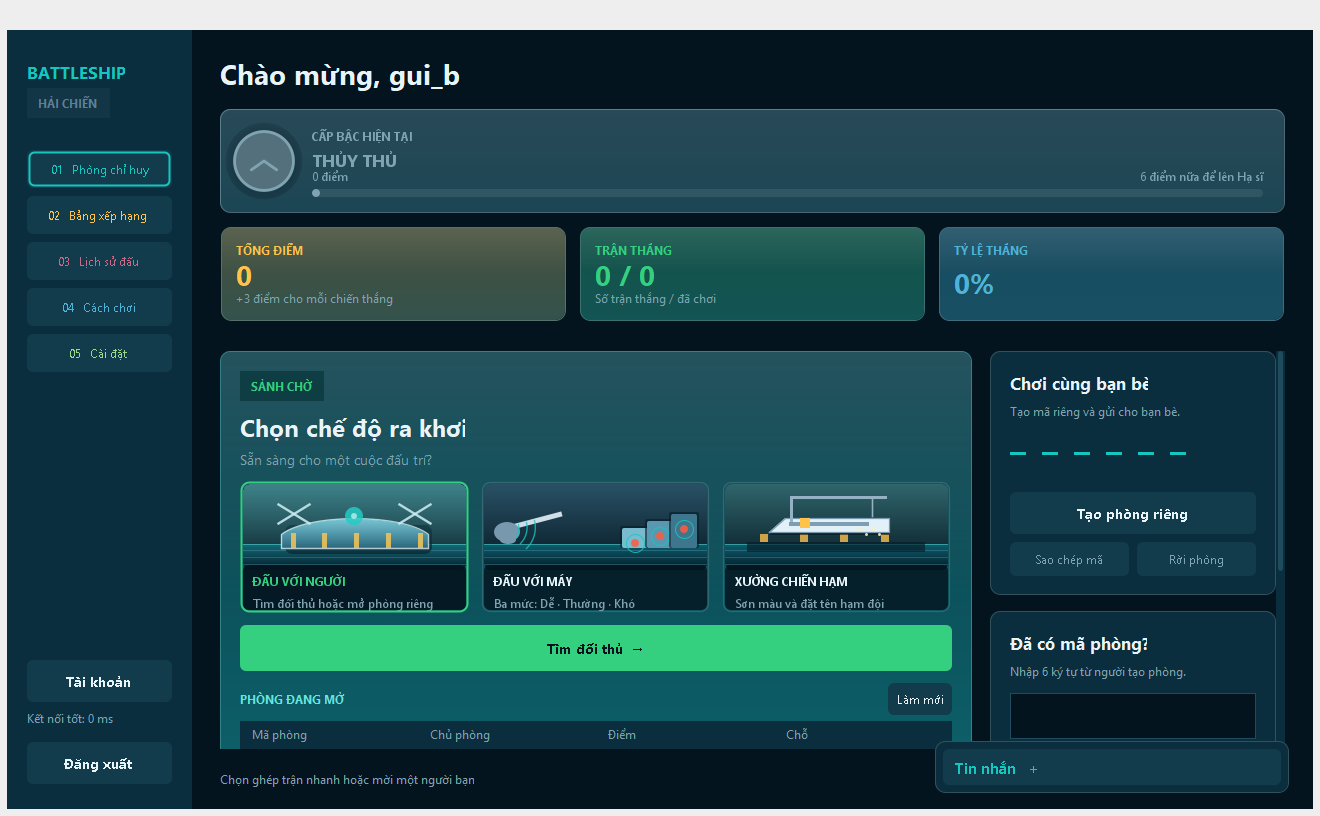
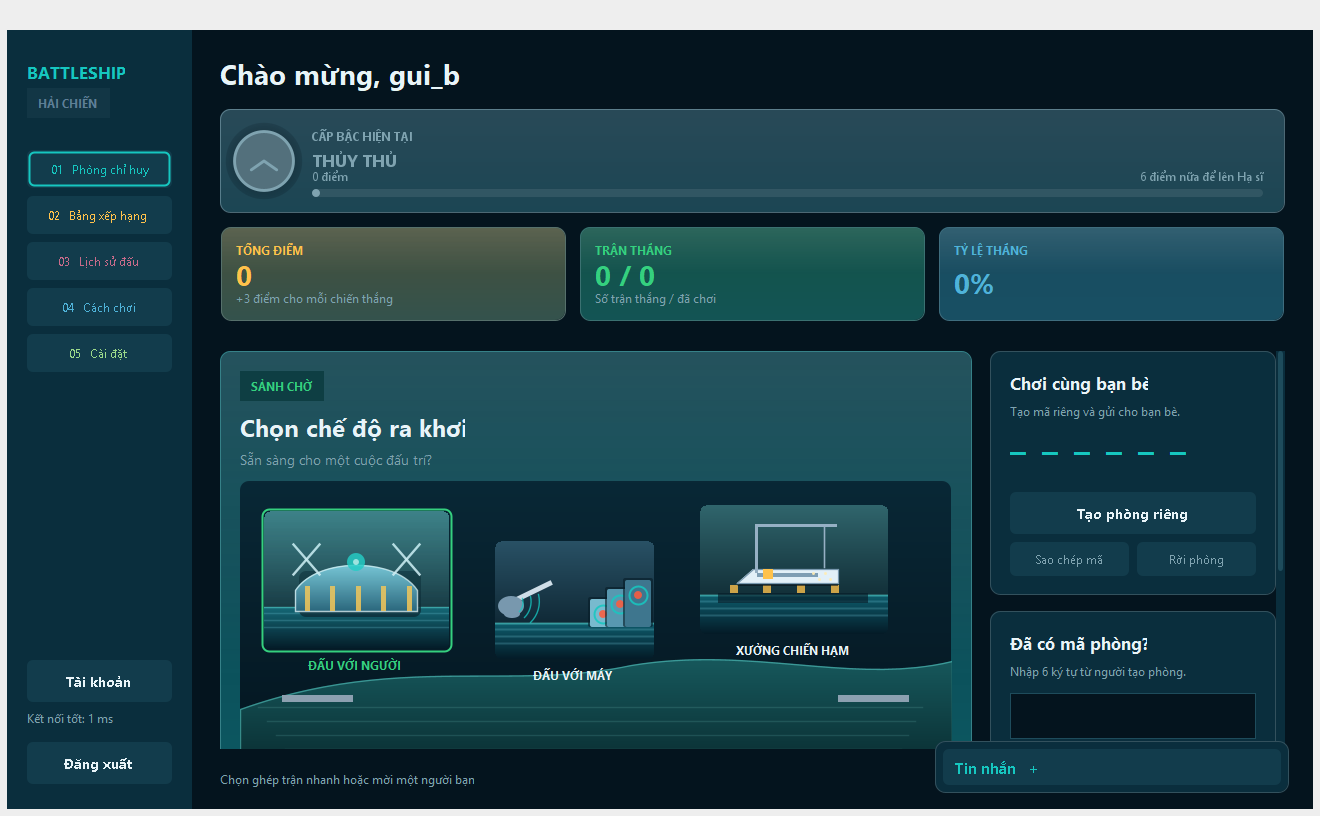
feat: the lobby hub is one scene with three buildings, like Gunny's port
The three branches are no longer a row of cards inside a form. HubScene paints one map - sky, a
curving coastline, piers - and places the three structures on it at different depths and sizes: the
domed arena on the left, the target range in the middle, the dry dock on the right. Each has its name
plate under it; tapping the building itself or its plate opens that branch, hovering lifts the
building and brightens its scene, and the open branch keeps a bright frame. The plates stay real
buttons, so keyboard access and the suites keep working, and the now-unused ModeTile class is gone.

First render had every plate stacked in the top-left corner: the scene computed where the buildings
go while painting, but doLayout positioned the plates before any paint had run. The placement now
happens inside doLayout.

Also learned from the field: the "JSON không hợp lệ" a player saw was a stale server, started before
ROOM_LIST_REQ existed, answering an unknown message type. Restarting the server cleared it, and a
live probe then confirmed the whole flow - empty list, create a room, the other player sees it with
its host, points and free slot, join, and the room leaves the browser once it is in play. Client and
server must be restarted together after a protocol change.

Verified: -Gui PASS (5/5), docs/ui/lobby.png and room-browser.png re-rendered.

Changed region(s): [[0.1553, 0.5821, 0.7455, 0.9191]]

diff --git a/src/client/ui/HubScene.java b/src/client/ui/HubScene.java
@@ -1,0 +1,156 @@
+package client.ui;
+
+import javax.swing.*;
+import java.awt.*;
+import java.awt.event.MouseAdapter;
+import java.awt.event.MouseEvent;
+import java.awt.geom.Path2D;
+import java.awt.geom.RoundRectangle2D;
+
+public class HubScene extends JPanel {
+    public interface Entry {
+        void open(int mode);
+    }
+
+    private final JButton[] plates = new JButton[3];
+    private final int[] placedX = new int[3], placedY = new int[3], placedW = new int[3], placedH = new int[3];
+    private final String[] titles = {"ĐẤU VỚI NGƯỜI", "ĐẤU VỚI MÁY", "XƯỞNG CHIẾN HẠM"};
+    private final String[] subtitles = {"Tìm đối thủ · phòng chờ", "Ba mức Dễ · Thường · Khó", "Sơn màu · đặt tên hạm đội"};
+    private final Color[] accents = {Theme.MINT, Theme.AMBER, Theme.ORCHID};
+    private Entry entry;
+    private int selected, hovered = -1;
+
+    public HubScene() {
+        setOpaque(false);
+        setLayout(null);
+        for (int i = 0; i < 3; i++) {
+            final int mode = i;
+            JButton plate = new JButton(titles[i]);
+            plate.setFont(Theme.FONT_SMALL.deriveFont(Font.BOLD));
+            plate.setForeground(Theme.TEXT_MAIN);
+            plate.setContentAreaFilled(false);
+            plate.setOpaque(false);
+            plate.setFocusPainted(false);
+            plate.setBorderPainted(false);
+            plate.setCursor(Cursor.getPredefinedCursor(Cursor.HAND_CURSOR));
+            plate.addActionListener(e -> {
+                if (entry != null) {
+                    entry.open(mode);
+                }
+            });
+            plates[i] = plate;
+            add(plate);
+        }
+        addMouseListener(new MouseAdapter() {
+            @Override public void mousePressed(MouseEvent e) {
+                int hit = at(e.getX(), e.getY());
+                if (hit >= 0 && entry != null) {
+                    entry.open(hit);
+                }
+            }
+
+            @Override public void mouseExited(MouseEvent e) {
+                hovered = -1;
+                setCursor(Cursor.getDefaultCursor());
+                repaint();
+            }
+        });
+        addMouseMotionListener(new MouseAdapter() {
+            @Override public void mouseMoved(MouseEvent e) {
+                int hit = at(e.getX(), e.getY());
+                if (hit != hovered) {
+                    hovered = hit;
+                    setCursor(hit >= 0 ? Cursor.getPredefinedCursor(Cursor.HAND_CURSOR) : Cursor.getDefaultCursor());
+                    repaint();
+                }
+            }
+        });
+    }
+
+    public void setEntry(Entry value) { entry = value; }
+
+    public void setSelected(int mode) {
+        selected = mode;
+        for (int i = 0; i < plates.length; i++) {
+            plates[i].setForeground(i == mode ? accents[i] : Theme.TEXT_MAIN);
+        }
+        repaint();
+    }
+
+    public JButton plate(int mode) { return plates[mode]; }
+
+    private int at(int mx, int my) {
+        for (int i = 0; i < 3; i++) {
+            if (mx >= placedX[i] && mx <= placedX[i] + placedW[i] && my >= placedY[i] && my <= placedY[i] + placedH[i] + 30) {
+                return i;
+            }
+        }
+        return -1;
+    }
+
+    @Override public void doLayout() {
+        place(getWidth(), getHeight());
+        for (int i = 0; i < 3; i++) {
+            plates[i].setBounds(placedX[i], placedY[i] + placedH[i] + 4, Math.max(90, placedW[i]), 24);
+        }
+    }
+
+    @Override protected void paintComponent(Graphics graphics) {
+        int w = getWidth(), h = getHeight();
+        if (w < 60 || h < 60) {
+            return;
+        }
+        Graphics2D g = Theme.graphics(graphics);
+        place(w, h);
+        g.setPaint(new GradientPaint(0, 0, new Color(9, 40, 54), 0, h, new Color(4, 20, 30)));
+        g.fillRoundRect(0, 0, w - 1, h - 1, 18, 18);
+        int coast = (int) (h * 0.66);
+        Path2D land = new Path2D.Double();
+        land.moveTo(0, coast + 30);
+        land.curveTo(w * 0.22, coast - 26, w * 0.38, coast + 12, w * 0.55, coast - 14);
+        land.curveTo(w * 0.72, coast - 34, w * 0.86, coast + 6, w, coast - 18);
+        land.lineTo(w, h);
+        land.lineTo(0, h);
+        land.closePath();
+        g.setPaint(new GradientPaint(0, coast - 30, new Color(24, 92, 96), 0, h, new Color(8, 40, 44)));
+        g.fill(land);
+        g.setColor(new Color(99, 230, 222, 120));
+        g.setStroke(new BasicStroke(1.4f));
+        g.draw(land);
+        for (int i = 0; i < 5; i++) {
+            int y = coast + 28 + i * 14;
+            g.setColor(new Color(140, 232, 226, 34));
+            g.drawLine(18 + i * 9, y, w - 30 - i * 7, y);
+        }
+        int pierY = coast + 16;
+        g.setColor(new Color(140, 160, 176));
+        g.fillRect((int) (w * 0.06), pierY, (int) (w * 0.10), 7);
+        g.fillRect((int) (w * 0.84), pierY, (int) (w * 0.10), 7);
+        for (int i = 0; i < 3; i++) {
+            boolean active = selected == i, over = hovered == i;
+            double glow = active ? 1 : over ? .55 : 0;
+            HubArt.paint(g, i, placedX[i], placedY[i] - (over ? 4 : 0), placedW[i], placedH[i], glow);
+            if (active) {
+                g.setColor(accents[i]);
+                g.setStroke(new BasicStroke(2f));
+                g.draw(new RoundRectangle2D.Double(placedX[i] - 2, placedY[i] - 2, placedW[i] + 4, placedH[i] + 4, 14, 14));
+            }
+        }
+        g.dispose();
+    }
+
+    private void place(int w, int h) {
+        int unit = Math.max(150, (int) (w * 0.26));
+        int tall = Math.max(96, (int) (h * 0.46));
+        placedW[0] = unit; placedH[0] = tall;
+        placedW[1] = (int) (unit * 0.86); placedH[1] = (int) (tall * 0.86);
+        placedW[2] = (int) (unit * 1.02); placedH[2] = (int) (tall * 0.94);
+        int gap = Math.max(16, (w - placedW[0] - placedW[1] - placedW[2] - 40) / 3);
+        placedX[0] = 24;
+        placedX[1] = placedX[0] + placedW[0] + gap;
+        placedX[2] = placedX[1] + placedW[1] + gap;
+        placedY[0] = (int) (h * 0.10);
+        placedY[1] = (int) (h * 0.20);
+        placedY[2] = (int) (h * 0.08);
+    }
+}

diff --git a/src/client/ui/LobbyFrame.java b/src/client/ui/LobbyFrame.java
@@ -24,7 +24,7 @@ public class LobbyFrame extends JFrame {
     private final RankCard rankCard = new RankCard();
     private final java.awt.CardLayout modeLayout = new java.awt.CardLayout();
     private final JPanel modeHost = Theme.transparent(modeLayout);
-    private final JPanel modeTiles = Theme.transparent(new GridLayout(1, 3, 12, 0));
+    private final HubScene hubScene = new HubScene();
     private final JTextField txtFleetName = new JTextField();
     private final DefaultTableModel roomModel = new DefaultTableModel(new String[]{"Mã phòng", "Chủ phòng", "Điểm", "Chỗ"}, 0) {
         public boolean isCellEditable(int row, int column) {
@@ -254,23 +254,16 @@ public class LobbyFrame extends JFrame {
         Theme.addStack(head, lblQuickMatchStatus, 0);
         hub.add(head, BorderLayout.NORTH);
 
-        ModeTile human = new ModeTile(0, "ĐẤU VỚI NGƯỜI", "Tìm đối thủ hoặc mở phòng riêng", Theme.MINT);
-        ModeTile machine = new ModeTile(1, "ĐẤU VỚI MÁY", "Ba mức: Dễ · Thường · Khó", Theme.AMBER);
-        ModeTile shipyard = new ModeTile(2, "XƯỞNG CHIẾN HẠM", "Sơn màu và đặt tên hạm đội", Theme.ORCHID);
-        modeTiles.add(human); modeTiles.add(machine); modeTiles.add(shipyard);
-        for (final ModeTile tile : new ModeTile[]{human, machine, shipyard}) {
-            tile.addActionListener(e -> setMode(tile.mode));
-        }
-        modeTiles.setPreferredSize(new Dimension(0, 132));
-        modeTiles.setMaximumSize(new Dimension(Integer.MAX_VALUE, 132));
-
+        hubScene.setEntry(this::setMode);
+        hubScene.setPreferredSize(new Dimension(0, 300));
+        hubScene.setMaximumSize(new Dimension(Integer.MAX_VALUE, 300));
         modeHost.add(humanBranch(), "human");
         modeHost.add(machineBranch(), "machine");
         modeHost.add(shipyardBranch(), "shipyard");
         modeHost.setPreferredSize(new Dimension(0, 208));
         modeHost.setMaximumSize(new Dimension(Integer.MAX_VALUE, 208));
         JPanel middle = Theme.stack();
-        Theme.addStack(middle, modeTiles, 12);
+        Theme.addStack(middle, hubScene, 10);
         Theme.addStack(middle, modeHost, 0);
         hub.add(middle, BorderLayout.CENTER);
         setMode(0);
@@ -280,9 +273,7 @@ public class LobbyFrame extends JFrame {
     private void setMode(int mode) {
         selectedMode = mode;
         modeLayout.show(modeHost, mode == 0 ? "human" : mode == 1 ? "machine" : "shipyard");
-        for (Component component : modeTiles.getComponents()) {
-            ((ModeTile) component).setSelectedMode(((ModeTile) component).mode == mode);
-        }
+        hubScene.setSelected(mode);
         if (mode == 0) {
             controller.requestRoomList();
             roomRefresh.start();
@@ -291,7 +282,7 @@ public class LobbyFrame extends JFrame {
         }
         modeHost.revalidate();
         modeHost.repaint();
-        modeTiles.repaint();
+        hubScene.repaint();
     }
 
     private JPanel humanBranch() {
@@ -439,52 +430,6 @@ public class LobbyFrame extends JFrame {
         }
     }
 
-    private static final class ModeTile extends JButton {
-        private final int mode;
-        private final String title, subtitle;
-        private final Color accent;
-        private boolean chosen;
-
-        ModeTile(int mode, String title, String subtitle, Color accent) {
-            this.mode = mode;
-            this.title = title;
-            this.subtitle = subtitle;
-            this.accent = accent;
-            setOpaque(false);
-            setContentAreaFilled(false);
-            setBorderPainted(false);
-            setFocusPainted(false);
-            setCursor(Cursor.getPredefinedCursor(Cursor.HAND_CURSOR));
-            setBorder(new EmptyBorder(10, 12, 10, 12));
-            setRolloverEnabled(true);
-            setText(title);
-            setToolTipText(subtitle);
-        }
-
-        void setSelectedMode(boolean value) {
-            chosen = value;
-        }
-
-        @Override protected void paintComponent(Graphics graphics) {
-            Graphics2D g = Theme.graphics(graphics);
-            int w = getWidth(), h = getHeight();
-            int label = 42, inset = 3;
-            HubArt.paint(g, mode, inset, inset, w - inset * 2, h - label - 4,
-                    chosen ? 1 : getModel().isRollover() ? .55 : 0);
-            g.setColor(new Color(4, 20, 30, chosen ? 234 : 206));
-            g.fillRoundRect(inset, h - label - 6, w - inset * 2, label + 3, 12, 12);
-            g.setFont(Theme.FONT_SMALL.deriveFont(Font.BOLD));
-            g.setColor(chosen ? accent : Theme.TEXT_MAIN);
-            g.drawString(title, 13, h - label + 15);
-            g.setFont(Theme.FONT_SMALL);
-            g.setColor(Theme.TEXT_MUTED);
-            g.drawString(subtitle, 13, h - 5);
-            g.setColor(chosen ? accent : new Color(255, 255, 255, 34));
-            g.setStroke(new BasicStroke(chosen ? 2f : 1.2f));
-            g.drawRoundRect(1, 1, w - 3, h - 3, 16, 16);
-            g.dispose();
-        }
-    }
 
     private JPanel onlineCard() {
         JPanel online = Theme.createCardPanel();
